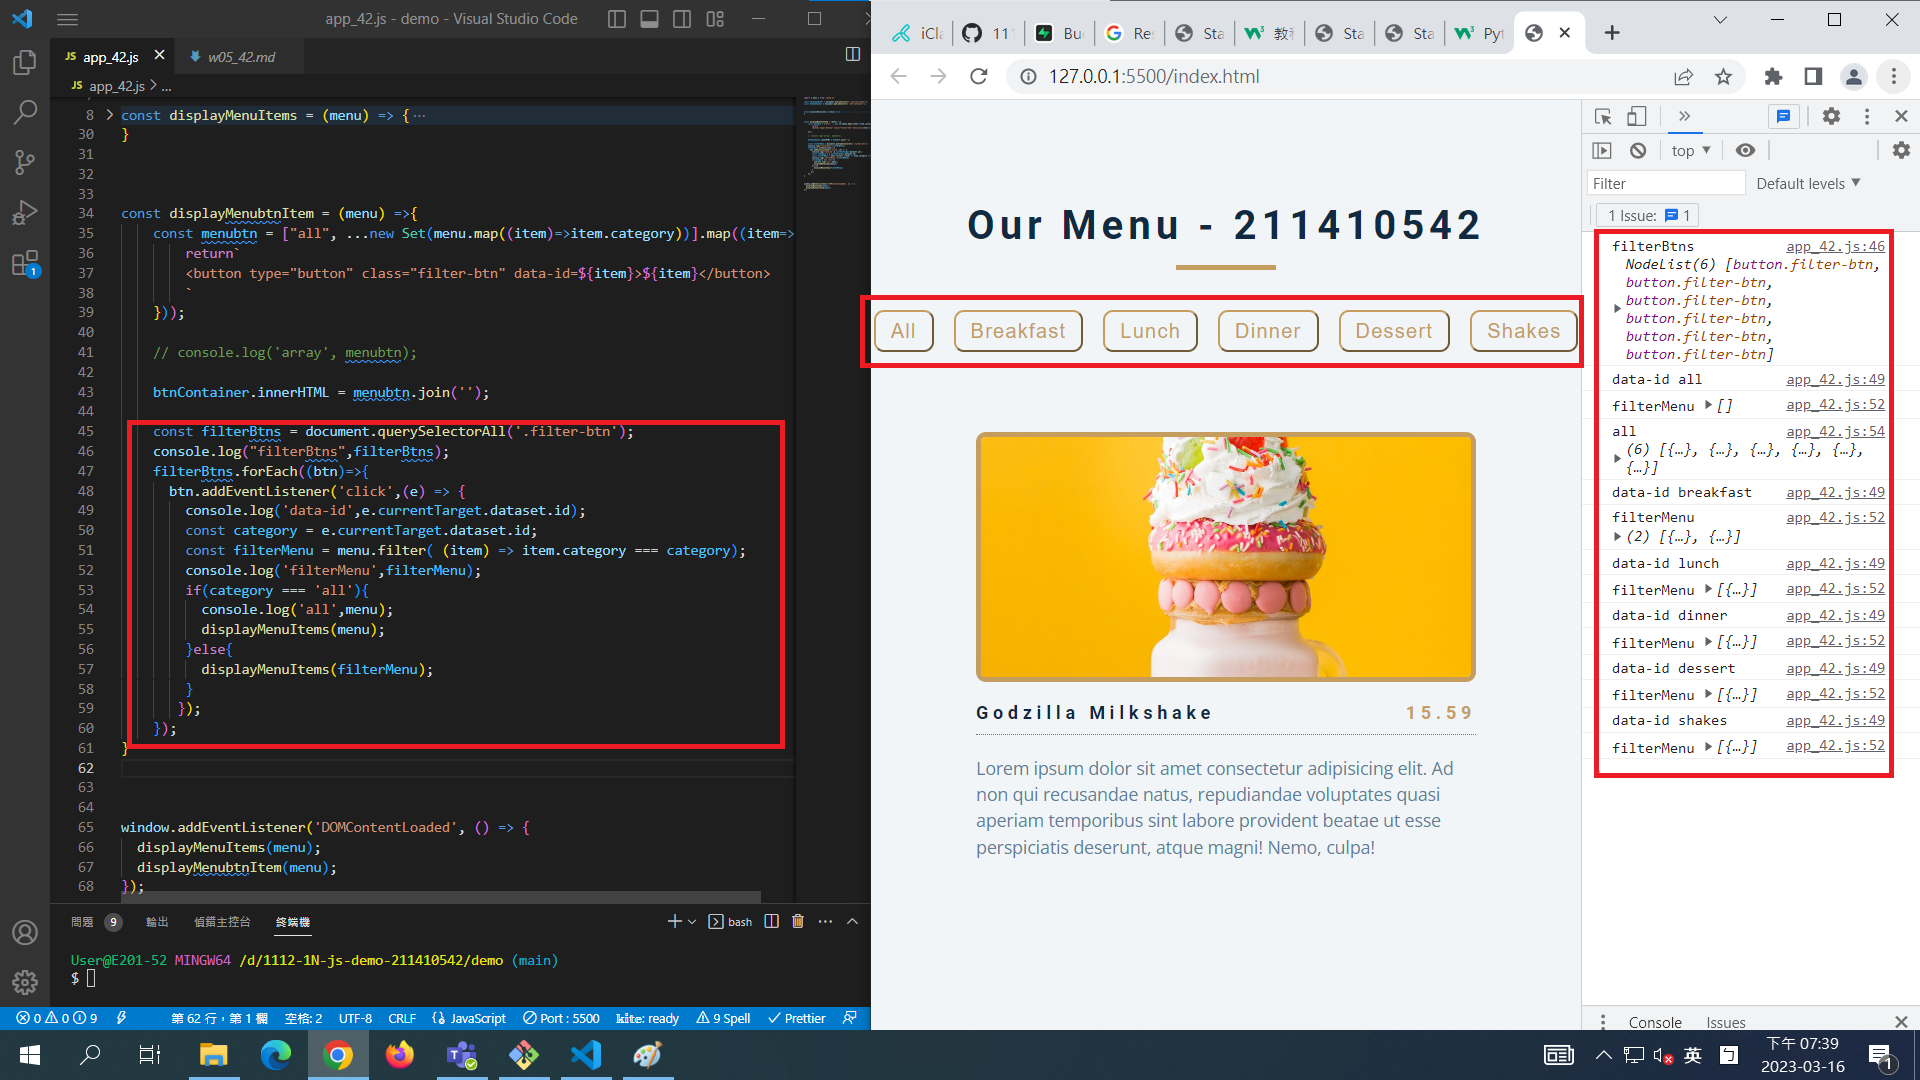
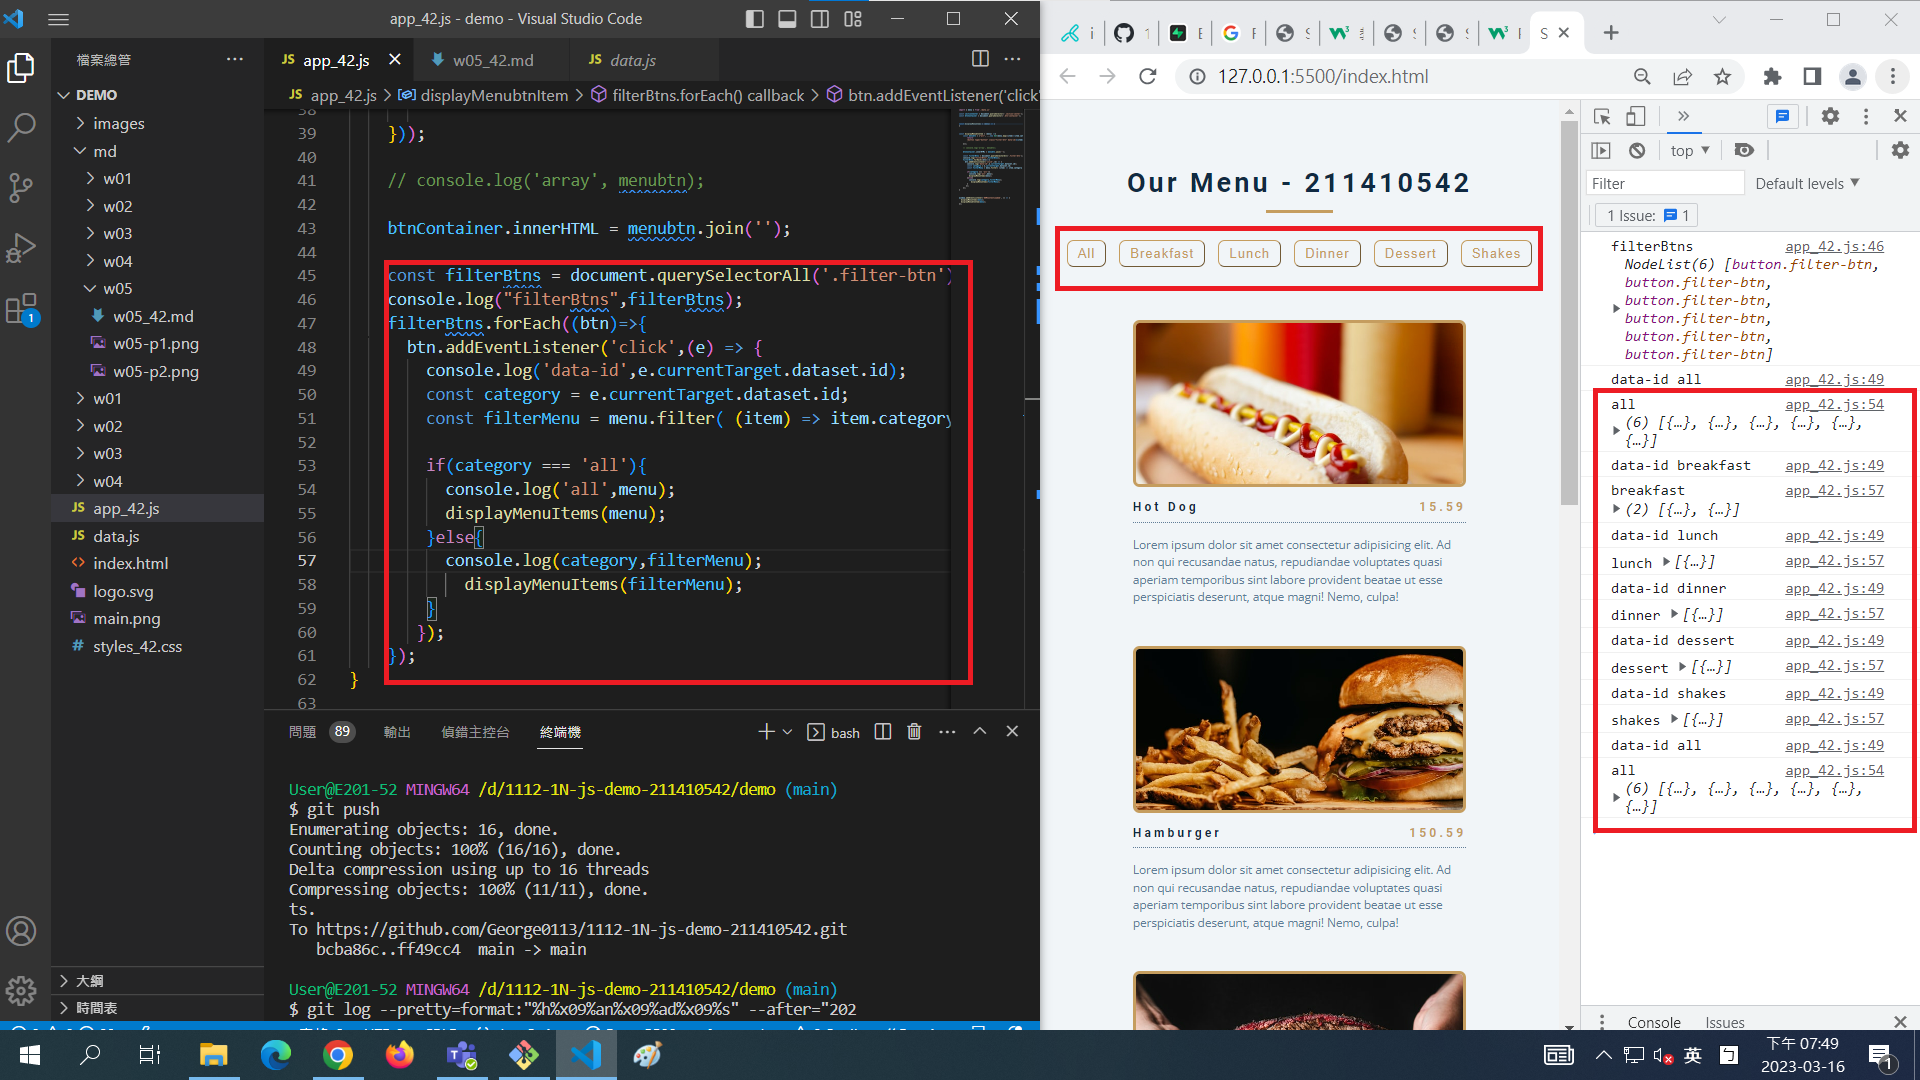
W05-P2: implement all filter buttons with all tests in console.log

diff --git a/demo/app_42.js b/demo/app_42.js
@@ -49,12 +49,13 @@ const displayMenubtnItem = (menu) =>{
         console.log('data-id',e.currentTarget.dataset.id);
         const category = e.currentTarget.dataset.id;
         const filterMenu = menu.filter( (item) => item.category === category);
-        console.log('filterMenu',filterMenu);
+
         if(category === 'all'){
           console.log('all',menu);
           displayMenuItems(menu);
         }else{
-          displayMenuItems(filterMenu);
+          console.log(category,filterMenu);
+            displayMenuItems(filterMenu);
         }
        });
     });

diff --git a/demo/md/w05/w05_42.md b/demo/md/w05/w05_42.md
@@ -8,7 +8,13 @@
 ff49cc4 George0113      Thu Mar 16 18:44:12 2023 +0800  W05-P1: use JavaScript module to import and export
 ```
 
+### W05-P2: implement all filter buttons with all tests in console.log
+
 ![w05-p2.png](https://spguhxeeusfjlibdhcxj.supabase.co/storage/v1/object/public/demo42/md_1N_img/w05-p2.png)
+
+```
+70fbef8 George0113      Thu Mar 16 19:41:10 2023 +0800  W05-P2: implement all filter buttons with all tests in console.log
+```
 
 ```
 $ git log --pretty=format:"%h%x09%an%x09%ad%x09%s" --after="2023-3-15"
